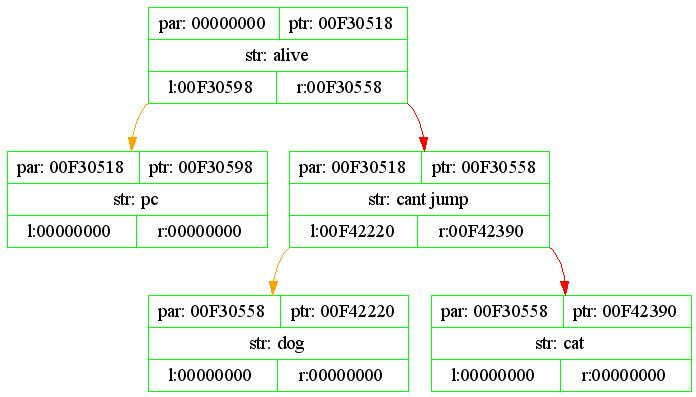
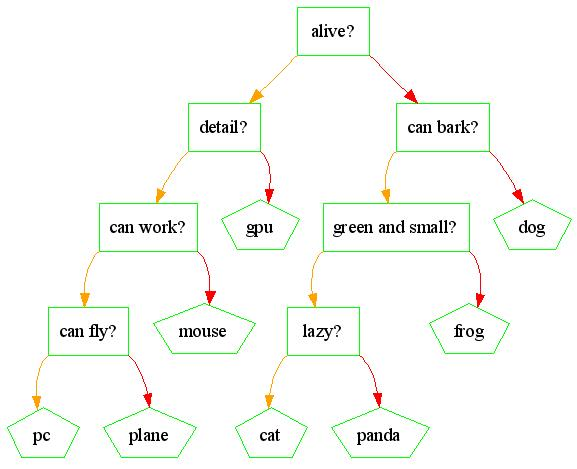
test project

Changed region(s): [[0.0, 0.0, 0.9983, 0.9975], [0.6551, 0.1511, 0.6863, 0.1814]]

diff --git a/StructureIntroduction/Akinator/Akinator/Akinator.cpp b/StructureIntroduction/Akinator/Akinator/Akinator.cpp
@@ -294,8 +294,14 @@ bool myIsAlphabet(char symbol)
 
 Node* loadNodes(FILE* file, Node* node)
 {
-    fprintf(file, "\"%p\" [label=\"{{par: %p|ptr: %p}|{str: %s}|{l:%p|r:%p}}\"]\n ", node, (node->parent), node,
-        (char*)(node->data), node->left, node->right); // <-- label printing
+    if (node->right != NULL && node->left != NULL)
+    {
+        fprintf(file, "\"%p\"[shape=\"record\", label=\"%s?\"]\n", node, node->data);
+    }
+    else
+    {
+        fprintf(file, "\"%p\"[shape=\"pentagon\", label=\"%s\"]\n", node, node->data);
+    }
 
     if (node == nullptr)
     {
@@ -410,8 +416,8 @@ void getDifferendBetween(Node* node)
     new_leaf->data = node->data;
     new_leaf->parent = node;
     node->data = new_data;
-    node->right = new_leaf;
-    node->left = new_word_leaf;
+    node->left = new_leaf;
+    node->right = new_word_leaf;
 }
 
 void deleteSymbol(char* string)
